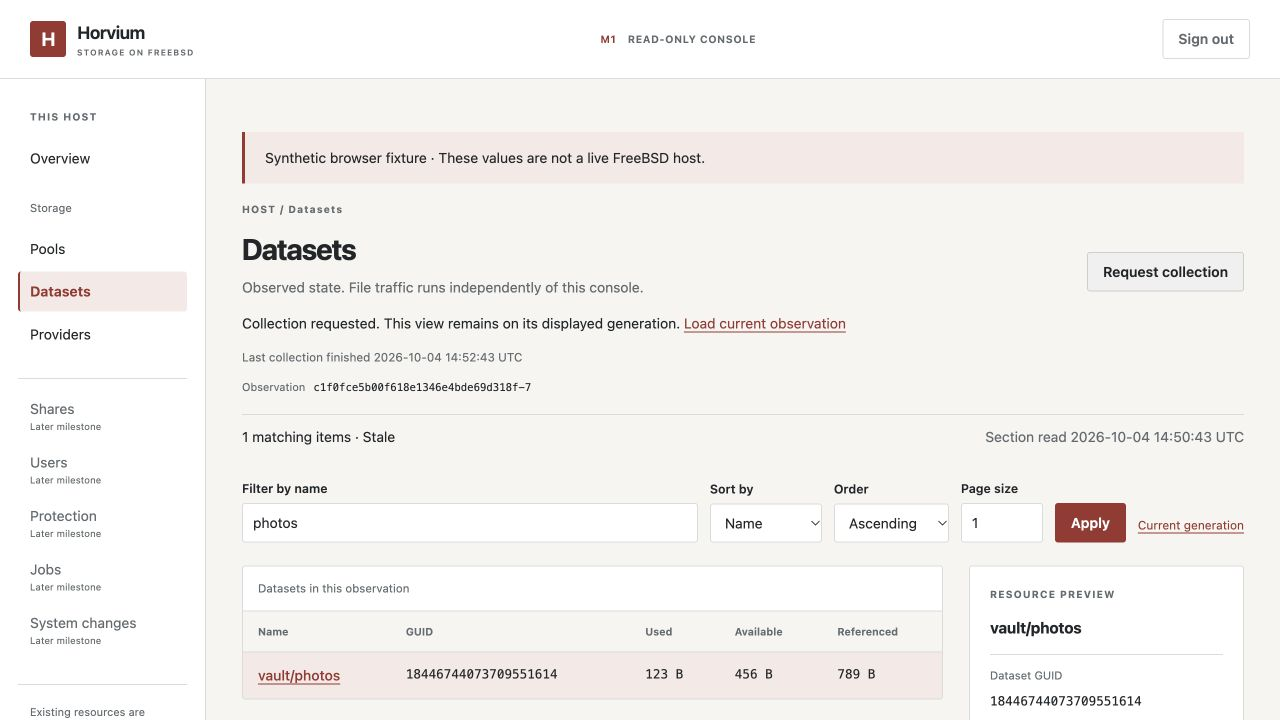
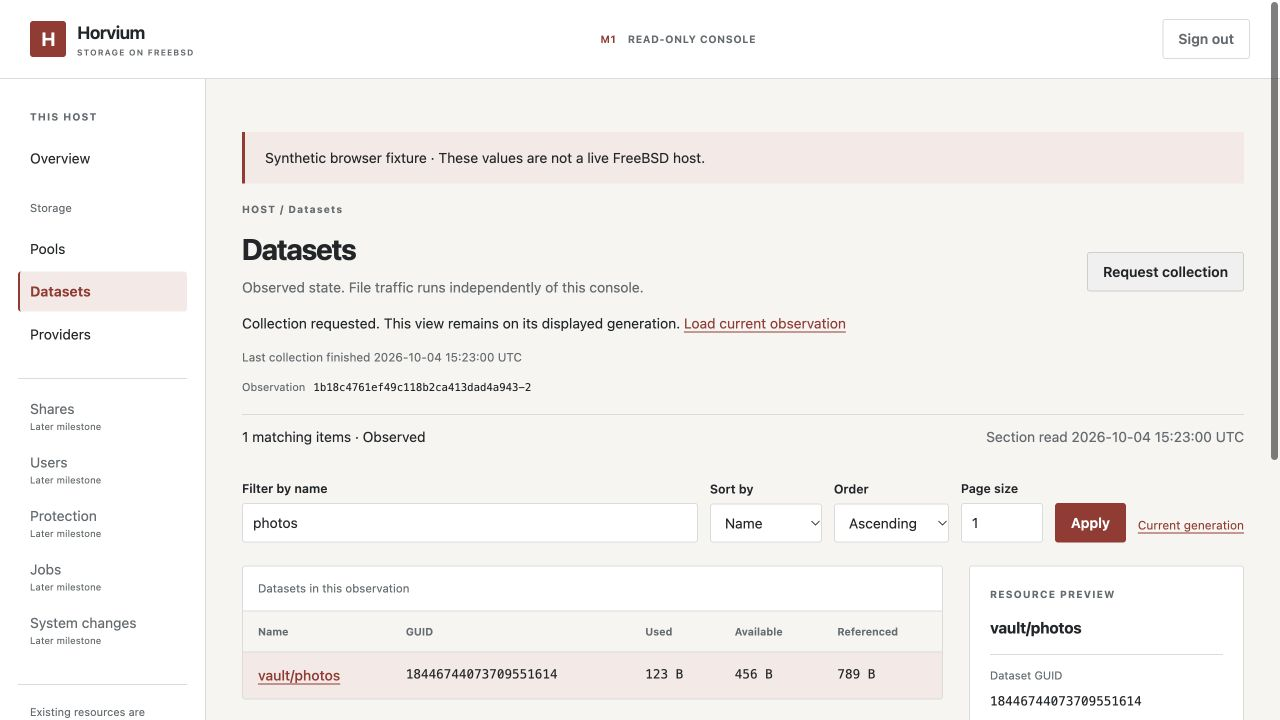
docs(m1): record native console and CLI validation

diff --git a/docs/testing/M1/console.md b/docs/testing/M1/console.md
@@ -1,6 +1,7 @@
 # M1 console and CLI evidence
 
-Status: implementing slice 5 for maintainer review. M1 remains unaccepted.
+Status: slice 5 under review in [PR 8](https://github.com/gonz0w/horvium/pull/8).
+M1 remains unaccepted.
 Date: 2026-10-04. Authority: approved [EDD](../../milestones/M1/EDD.md) and
 [Test Design](../../milestones/M1/TDD.md). Refs [issue 1](https://github.com/gonz0w/horvium/issues/1).
 
@@ -86,7 +87,10 @@ explicit synthetic banner. Backend browser/engine version was not captured;
 this is limited additional evidence, not the required Safari/Firefox matrix.
 Dark appearance and JavaScript-disabled execution were not browser-qualified.
 
-Exact native run/source records will be added after validation. The explicit `TestBrowserPreview` fixture serves generated observations
+The final source `78ec3c2e829bd24fdbec12fa100a3780a545191d` also passed
+this browser flow, including focus retained on Apply after keyboard filtering.
+The screenshot was refreshed from that source. Fixtures were stopped and browser
+tabs closed after verification. The explicit `TestBrowserPreview` fixture serves generated observations
 and marks every page synthetic; it is never a product mode or native evidence.
 Safari/macOS, Firefox/Linux, JavaScript-disabled browser execution, assistive
 technology and complete WCAG assessment remain separate acceptance gates.
@@ -119,7 +123,7 @@ also independently check isolated geometry and properties. A skipped test is not
 |---|---|---|
 | M1-HTTP-001 | Shared authenticated full/fragment/JSON routes, local assets, CSRF and strict queries | Required browser matrix and comprehensive abuse review |
 | M1-AUTH-001 | Protected operator input and foreground setup/rotation wiring | Process restart and integrated bounded audit logging |
-| M1-NATIVE-001 | Native helper/cache/HTTP/CLI/HTML fixture added | Native execution evidence and hardware diversity |
+| M1-NATIVE-001 | Native helper/cache/HTTP/CLI/HTML fixture added | Hardware diversity and complete runtime acceptance |
 | M1-UI-001 | Semantic views, stable exact-generation selection and placeholders | Assistive technology, full browser/accessibility acceptance |
 | M1-BUILD-001 | cgo-free executable with embedded local assets | Release provenance and package lifecycle qualification |
 | M1-SCALE-001 | Existing cache limits plus bounded pages/HTTP responses | Measured whole-application RSS, latency and admission budgets |
@@ -127,3 +131,42 @@ also independently check isolated geometry and properties. A skipped test is not
 
 No NAS release, physical hardware performance, installation, file-client access,
 backup operation or commercial deployment qualification follows from this slice.
+
+## Final execution record
+
+Functional source: `78ec3c2e829bd24fdbec12fa100a3780a545191d`.
+[Native run 37212702081](https://github.com/gonz0w/horvium/actions/runs/37212702081)
+completed successfully in all five jobs. Both product jobs ran the root-owned
+storage fixture and reexecuted its child under the configured non-root UID;
+`TestNativeForegroundCLIConsole` passed. Named-FIFO permission and failed-section
+count regressions passed too. The child test's separate top-level invocation is
+intentionally skipped; the parent requires its actual execution and assertions.
+
+| Actual guest | Architecture / SDK | ZFS userland and kernel suffix | Result |
+|---|---|---|---|
+| FreeBSD 15.1-RELEASE-p3 | amd64 / Go 1.27.1 | 2.4.2-1-FreeBSD_g6330a45b0 | cgo-free build, full unit/component/native fixture suite passed |
+| FreeBSD 14.5-RELEASE | amd64 / Go 1.27.1 | 2.2.9-FreeBSD_g079ba86d7 | cgo-free build, full unit/component/native fixture suite passed |
+
+The framework's root fixture verifies real kernel UID separation, independent
+pool/dataset GUID and size, native CLI/HTML/fragment selection, unchanged owned
+dataset properties, helper shutdown and pool/md teardown. No existing storage
+was changed or host inventory exported. QEMU action revision is
+`a2f9a41fa97f6848b8c3b791087dfcdaa5b473ff`, builder 2.2.8, runner ubuntu-24.04,
+6144 MiB guest RAM. Image digest/default CPU were not captured; this is neither an
+immutable image baseline nor a performance result.
+
+Earlier successful runs qualified initial source
+`20c1f75db0f9a27708fe0790f8f84998f9415068` (37211048165), reply/input cancellation
+fixes `4302527c7d1e44cc6e79ee53446aea2a8322b8f6` (37211352291), strengthened owned
+storage fixtures `9a039c8a804421dd31fcee14e9db57b60e7bd17e` (37211717269), and named-FIFO
+permissions `20b35c362fa232a3ecef6efeb94f449834882e89` (37211956691). Final source,
+file hashes, exact SDK/ZFS versions and asset provenance are recorded in the
+[source manifest](../../research/M1/source-manifest.json).
+
+Local macOS arm64 checks passed: `make check lint test secrets build go-check`,
+including race instrumentation and short existing fuzz targets. Product builds
+remain CGO_ENABLED=0; race instrumentation uses cgo in development only. The
+last evidence/screenshot commit changes documentation only; it is not substituted
+for the functional revision named above. Complete M1 browser, accessibility,
+logging, restart/file-daemon continuity and measured application budgets remain
+open. No production NAS, ports-package or commercial qualification is claimed.

diff --git a/docs/compatibility/matrix.md b/docs/compatibility/matrix.md
@@ -5,7 +5,7 @@ validation are separate. Refresh exact versions in each active research manifest
 
 | Area | Target | Evidence/status |
 |---|---|---|
-| Runtime | Approved M1 FreeBSD 15.1 primary / 14.5 compatibility | Native reader/helper/cache/admin fixture tests passed; foreground runtime/console/CLI fixtures added, execution pending |
+| Runtime | Approved M1 FreeBSD 15.1 primary / 14.5 compatibility | Native reader/helper/cache/admin fixture tests passed; foreground runtime/console/CLI owned-fixture tests passed on both releases; full NAS runtime pending |
 | Architecture | amd64 first candidate; other FreeBSD architectures as validated | Hardware-neutral design, no universal support claim |
 | Storage | ZFS pools/datasets on supported direct-access devices | Planned; no pool modified by M0 |
 | File clients | macOS and Linux/BSD first; SMB/NFS/SFTP as designed in M3 | Priorities confirmed; version/permission matrix and actual tests pending |
@@ -20,7 +20,7 @@ validation are separate. Refresh exact versions in each active research manifest
 | Product helper | Same two observed release/patch levels, Go 1.27.1 + x/sys v0.48.0 amd64 | Actual kernel UID, socket ownership/lifecycle, admission/timeout and reader-over-transport tests passed |
 | Collector/cache | Hardware-neutral Go library; FreeBSD helper integration | Local generation/ownership/concurrency/boundary tests and actual unprivileged native helper outage/recovery passed |
 | Administration security | Hardware-neutral auth/config parser; FreeBSD descriptor ownership and loopback HTTP | Local denial/expiry/capacity tests and native credential ownership/atomicity/dropped-UID real HTTP fixtures passed on both releases; UI/CLI and deployable auth pending |
-| Console/CLI | Go 1.27.1 with locally embedded HTMX 2.0.11 | Local auth/parity/escaping/strict-query/expiry tests pass; limited in-app browser login/filter/keyboard/refresh/logout and 390-pixel layout verified; native execution pending |
+| Console/CLI | Go 1.27.1 with locally embedded HTMX 2.0.11 | Local auth/parity/escaping/strict-query/expiry tests pass; limited in-app browser login/filter/keyboard/refresh/logout and 390-pixel layout verified; actual root-helper/unprivileged foreground runtime/CLI/HTML with owned GUID/property/teardown assertions passed on both releases |
 | Tooling | Python 3.14.7 + checksum-pinned tools on Linux/macOS | See bootstrap status for checks actually run |
 
 Evidence levels: D0 designed; D1 unit/component verified; D2 native/client verified;
@@ -35,6 +35,7 @@ for the completed reader slice and [helper evidence](../testing/M1/helper.md)
 for actual Go transport tests; [collector evidence](../testing/M1/collector.md)
 records the unprivileged cache/outage/recovery path;
 [security evidence](../testing/M1/security.md) tracks configuration, credentials
-and the administration boundary. The earlier C spike is ABI
+and the administration boundary; [console evidence](../testing/M1/console.md)
+records native foreground/CLI/HTML and limited synthetic browser execution. The earlier C spike is ABI
 evidence only. No
 physical identity, file-client, scale or throughput claim follows.

diff --git a/docs/milestones/M1/implementation.md b/docs/milestones/M1/implementation.md
@@ -118,12 +118,16 @@ acceptance remain pending.
 
 ## Slice 5: authenticated console, CLI and foreground assembly
 
-Prepared for review: semantic HTML5/CSS/local HTMX views and a protected-input
+Under review in [PR 8](https://github.com/gonz0w/horvium/pull/8):
+semantic HTML5/CSS/local HTMX views and a protected-input
 CLI share the existing authenticated cache queries. Foreground commands compose
 the root helper and exact-UID management runtime without service installation.
 Filtering, sorting, pagination and selection preserve an exact generation;
 unavailable/partial/stale/expired outcomes remain explicit. No storage mutation,
-file-service configuration or backup capability is introduced. See
+file-service configuration or backup capability is introduced. Both selected
+FreeBSD QEMU releases passed actual helper/unprivileged runtime/CLI/HTML with
+independently verified owned GUIDs and teardown. Limited in-app browser flows
+also passed; full required browser/accessibility acceptance remains open. See
 [console evidence](../../testing/M1/console.md) and the
 [development runbook](../../operations/M1-development.md).
 
